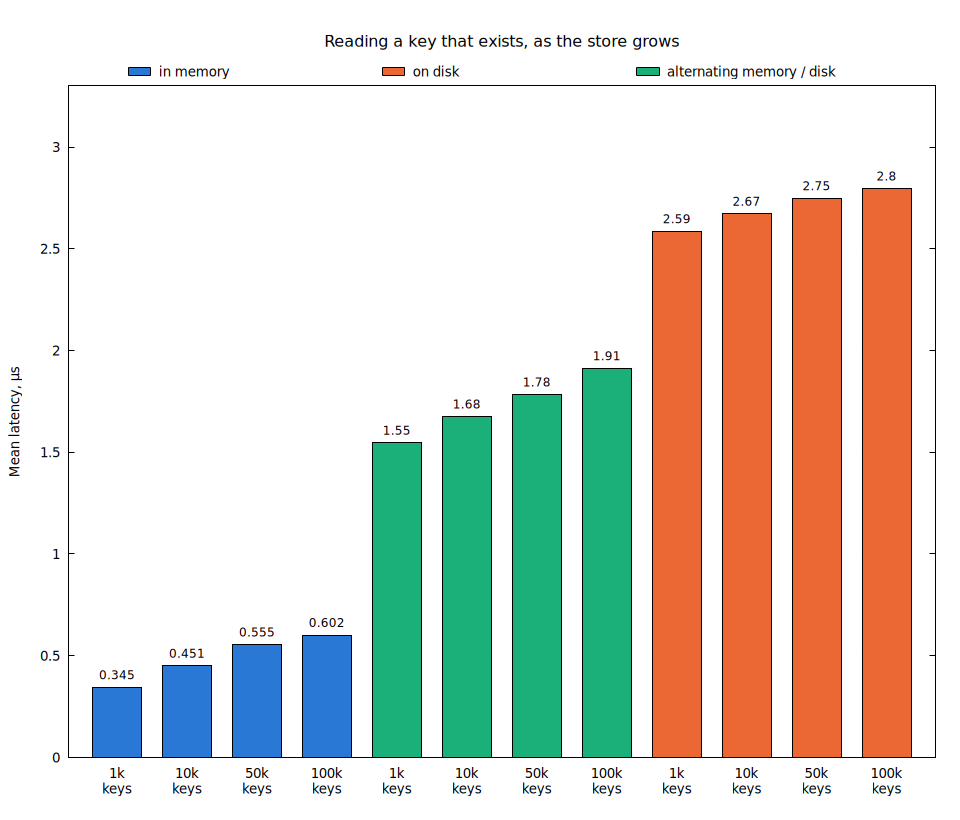
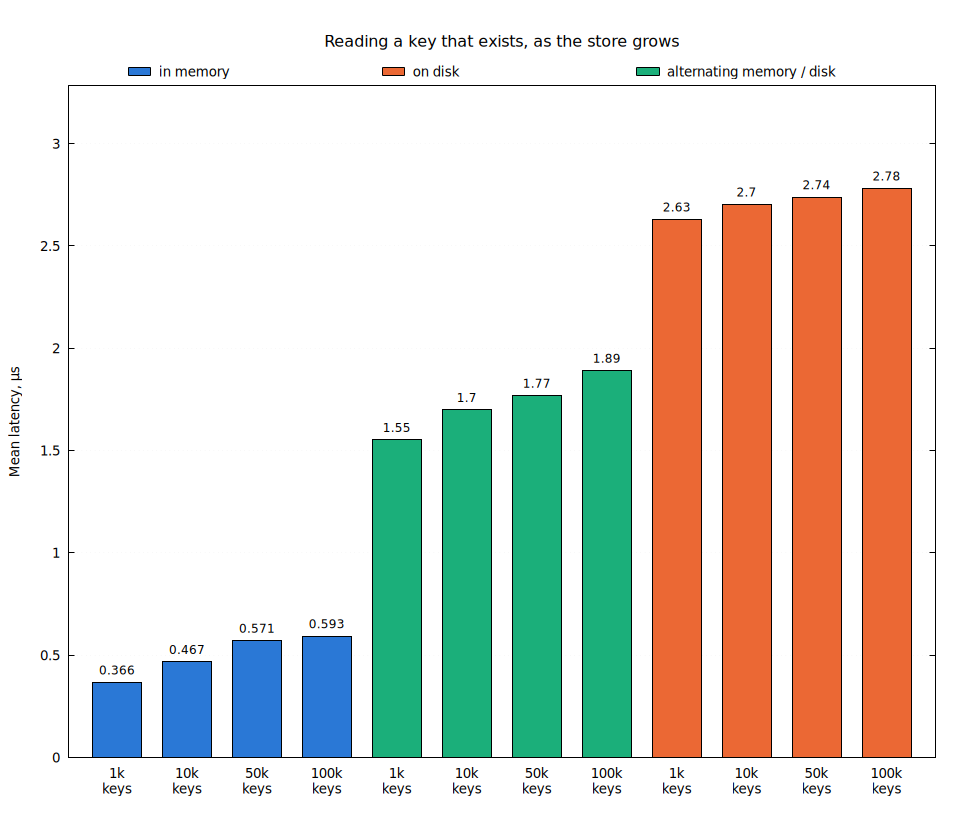
benchmark.md: re-measure reads with the empty-L1 filter
Re-ran sstable_lookup and read/get_miss at fcf5172, merged them into the
2026-10-31 report's means, and redrew the read, lookup-hits and
lookup-misses charts. The misses paragraph now gives the actual reason an
in-memory miss costs more than an on-disk one (the skip-list search) and
why it costs less than an in-memory hit (no value read).

diff --git a/minnal_db/benchmark.md b/minnal_db/benchmark.md
@@ -58,7 +58,7 @@ ran. So more writers mean more writes per fsync, not a queue for the disk.
 | Machine | AMD Ryzen 9 9950X3D (16 cores), 96 GB RAM, NVMe SSD, bare metal |
 | OS | Ubuntu 26.04, Linux 7.0.0-42 |
 | Rust | 1.99.1 |
-| Code | commit `1b7e83e` |
+| Code | commit `1b7e83e`; [Reads](#reads) at commit `fcf5172` |
 | Date | 2026-10-31 |
 
 To reproduce everything, including the charts:
@@ -187,8 +187,8 @@ time on both tiers.
 ![Point read latency, in memory against on disk](docs/benchmarks/read.png)
 
 *Each pair is one kind of read, in memory (blue) then on disk (orange). The
-first pair is a lookup for a key that doesn't exist; there, disk is faster than
-memory — see below.*
+first pair is a lookup for a key that doesn't exist, which skips the value
+read; there, disk is slightly faster than memory — see below.*
 
 ### As the store grows
 
@@ -198,28 +198,32 @@ disk.
 
 ![Reading a key that exists, as the store grows](docs/benchmarks/lookup_hits.png)
 
-A read from disk barely slows as the store grows: 2.59 µs at 1,000 keys and
-2.80 µs at 100,000, 8% more for 100 times the keys. The on-disk lookup
+A read from disk barely slows as the store grows: 2.63 µs at 1,000 keys and
+2.78 µs at 100,000, 6% more for 100 times the keys. The on-disk lookup
 first rules files out by key range and bloom filter, then searches only a small
 bounded section of the file, so its work does not grow with file size. A read
-from memory rises 74% over the same range (0.35 to 0.60 µs), because the
+from memory rises 62% over the same range (0.37 to 0.59 µs), because the
 in-memory table is a skip list whose search deepens as it grows. Memory is
-still 4.6–7.5 times faster.
+still 4.7–7.2 times faster.
 
 The alternating workload costs more than the average of the two tiers would
-predict: 6% more at 1,000 keys, rising to 13% at 100,000. We have not measured
+predict: 4% more at 1,000 keys, rising to 12% at 100,000. We have not measured
 why.
 The two tiers use different code paths, and switching between them on every call
 may cost cache locality.
 
 ![Reading a key that does not exist, as the store grows](docs/benchmarks/lookup_misses.png)
 
-For a missing key the order flips: **disk is 2.5 to 3.3 times faster than
+For a missing key the order flips: **disk is 1.4 to 2.2 times faster than
 memory**. On disk, a bloom filter usually proves a key is absent without reading
 anything else, so a miss stays at about 0.2 µs at any store size. The in-memory
 table has no such filter. To prove a key is absent it walks the skip list just as
-far as it would to find one. So an in-memory miss costs about what an in-memory
-hit does, and grows the same way (0.49 to 0.69 µs).
+far as it would to find one, so an in-memory miss grows with the store the way an
+in-memory hit does (0.26 to 0.47 µs). It costs about three quarters of a hit,
+because a hit then reads the value from the value log and a miss has none to
+read. Below the in-memory table, the miss also checks the on-disk level, which
+is empty in this test: an empty level carries an empty bloom filter, so that
+check reads no file.
 
 ## Scans
 
